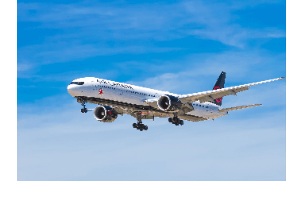
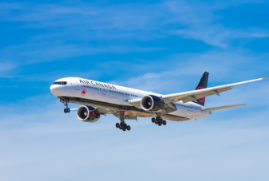
places photos fixed

diff --git a/pages/places.html b/pages/places.html
@@ -129,7 +129,7 @@
 
                 <div class="mycardcontainer">
                     <div class="places-card">
-                        <img src="../images/airplane.svg" alt="" />
+                        <img src="../images/airplane.png" alt="" />
                         <h1>FLIGHT BOOKING</h1>
                         <h2>
                             Lorem Ipsum is simply dummy text of the printing and
@@ -138,7 +138,7 @@
                     </div>
 
                     <div class="places-card">
-                        <img src="../images/hotel.svg" alt="" />
+                        <img src="../images/hotel&resort.png" alt="" />
                         <h1>HOTEL & RESORT BOOKING</h1>
                         <h2>
                             Lorem Ipsum is simply dummy text of the printing and
@@ -147,7 +147,7 @@
                     </div>
 
                     <div class="places-card">
-                        <img src="../images/family.svg" alt="" />
+                        <img src="../images/family.png" alt="" />
                         <h1>FAMILY TRIP PLANNER</h1>
                         <h2>
                             Lorem Ipsum is simply dummy text of the printing and
@@ -156,7 +156,7 @@
                     </div>
 
                     <div class="places-card">
-                        <img src="../images/cruise.svg" alt="" />
+                        <img src="../images/cruise.png" alt="" />
                         <h1>CRUISE TOUR</h1>
                         <h2>
                             Lorem Ipsum is simply dummy text of the printing and
@@ -165,7 +165,7 @@
                     </div>
 
                     <div class="places-card">
-                        <img src="../images/camp.svg" alt="" />
+                        <img src="../images/camp.png" alt="" />
                         <h1>FIRE CAMP</h1>
                         <h2>
                             Lorem Ipsum is simply dummy text of the printing and
@@ -174,7 +174,7 @@
                     </div>
 
                     <div class="places-card">
-                        <img src="../images/holidays.svg" alt="" />
+                        <img src="../images/holidays.png" alt="" />
                         <h1>CORPORATE HOLIDAYS</h1>
                         <h2>
                             Lorem Ipsum is simply dummy text of the printing and
